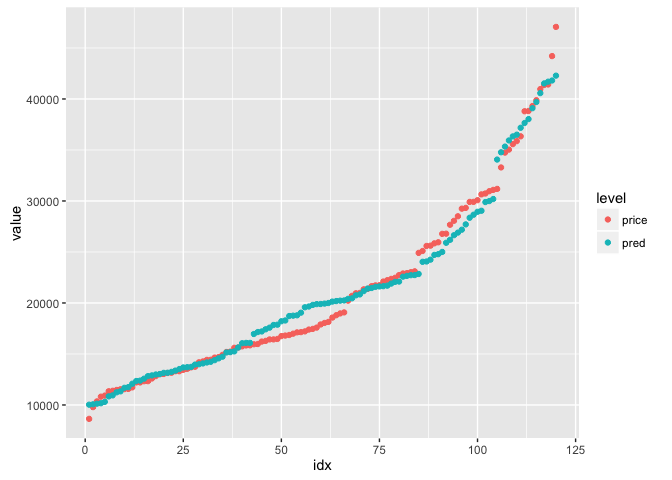
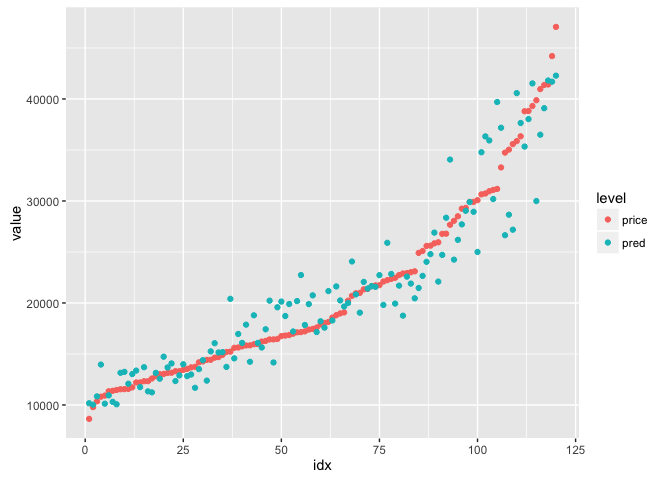
linear model change code and images

diff --git a/r/linear-model/index.html b/r/linear-model/index.html
@@ -516,42 +516,27 @@ mse_cars2
 
 <p>실제 데이터와 예측 결과를 하나의 그래프에 표현하려고 한다</p>
 <div class="highlight"><pre><code class="language-r" data-lang="r"><span class="kn">library</span><span class="p">(</span>dplyr<span class="p">)</span>
-</code></pre></div><div class="highlight"><pre><code class="language-text" data-lang="text">## 
-## Attaching package: &#39;dplyr&#39;
-## 
-## The following objects are masked from &#39;package:stats&#39;:
-## 
-##     filter, lag
-## 
-## The following objects are masked from &#39;package:base&#39;:
-## 
-##     intersect, setdiff, setequal, union
-</code></pre></div><div class="highlight"><pre><code class="language-r" data-lang="r">diff_cars2 <span class="o">=</span> <span class="kt">data.frame</span><span class="p">(</span>
+
+diff_cars2 <span class="o">=</span> <span class="kt">data.frame</span><span class="p">(</span>
     price <span class="o">=</span> cars_ts<span class="o">$</span>Price<span class="p">,</span>
     pred <span class="o">=</span> pred_cars2<span class="p">)</span> <span class="o">%&gt;%</span> 
-  arrange<span class="p">(</span>price<span class="p">)</span>
+  arrange<span class="p">(</span>price<span class="p">)</span> <span class="o">%&gt;%</span> 
+  mutate<span class="p">(</span>idx <span class="o">=</span> row_number<span class="p">())</span>
 </code></pre></div>
 <p><br /></p>
 
 <p><code>ggplot2</code>에서 본래 추구하는 방식으로 그래프를 그리기 위해서는 tidy data의 형태로 data.frame을 정리하는 것이 좋다. tidy data에 대해서 알아보려면 <a href="http://lumiamitie.github.io/r/tidy-data/">예전 글</a> 의 내용을 참고하면 좋을 것 같다.</p>
 <div class="highlight"><pre><code class="language-r" data-lang="r">diff_cars2_tidy <span class="o">=</span> diff_cars2 <span class="o">%&gt;%</span> 
-  tidyr<span class="o">::</span>gather<span class="p">(</span>key <span class="o">=</span> <span class="s">&quot;level&quot;</span><span class="p">,</span> value <span class="o">=</span> <span class="s">&quot;value&quot;</span><span class="p">)</span> <span class="o">%&gt;%</span> 
-  group_by<span class="p">(</span>level<span class="p">)</span> <span class="o">%&gt;%</span> 
-  arrange<span class="p">(</span>value<span class="p">)</span> <span class="o">%&gt;%</span> 
-  mutate<span class="p">(</span>idx <span class="o">=</span> row_number<span class="p">())</span>
+  tidyr<span class="o">::</span>gather<span class="p">(</span>key <span class="o">=</span> <span class="s">&quot;level&quot;</span><span class="p">,</span> value <span class="o">=</span> <span class="s">&quot;value&quot;</span><span class="p">,</span> price<span class="o">:</span>pred<span class="p">)</span>
 
 <span class="kp">head</span><span class="p">(</span>diff_cars2_tidy<span class="p">)</span>
-</code></pre></div><div class="highlight"><pre><code class="language-text" data-lang="text">## Source: local data frame [6 x 3]
-## Groups: level [1]
-## 
-##    level    value   idx
-##   (fctr)    (dbl) (int)
-## 1  price  8638.93     1
-## 2  price  9789.04     2
-## 3  price 10354.04     3
-## 4  price 10813.34     4
-## 5  price 10921.95     5
-## 6  price 11343.05     6
+</code></pre></div><div class="highlight"><pre><code class="language-text" data-lang="text">##   idx level    value
+## 1   1 price  8638.93
+## 2   2 price  9789.04
+## 3   3 price 10354.04
+## 4   4 price 10813.34
+## 5   5 price 10921.95
+## 6   6 price 11343.05
 </code></pre></div><div class="highlight"><pre><code class="language-r" data-lang="r">ggplot<span class="p">(</span>data <span class="o">=</span> diff_cars2_tidy<span class="p">,</span> 
         aes<span class="p">(</span>x <span class="o">=</span> idx<span class="p">,</span> y <span class="o">=</span> value<span class="p">,</span> colour <span class="o">=</span> level<span class="p">))</span> <span class="o">+</span>
   geom_point<span class="p">()</span>
@@ -890,10 +875,9 @@ mse_ridge <span class="o">=</span> <span class="kp">mean</span><span class="p">(
 <div class="highlight"><pre><code class="language-r" data-lang="r">df_ridge <span class="o">=</span> <span class="kt">data.frame</span><span class="p">(</span>
     price <span class="o">=</span> cars_ts<span class="o">$</span>Price<span class="p">,</span>
     pred <span class="o">=</span> pred_ridge<span class="p">[,</span><span class="m">1</span><span class="p">])</span> <span class="o">%&gt;%</span> 
-  tidyr<span class="o">::</span>gather<span class="p">(</span>key <span class="o">=</span> <span class="s">&#39;level&#39;</span><span class="p">,</span> value <span class="o">=</span> <span class="s">&#39;value&#39;</span><span class="p">)</span> <span class="o">%&gt;%</span> 
-  group_by<span class="p">(</span>level<span class="p">)</span> <span class="o">%&gt;%</span> 
-  arrange<span class="p">(</span>value<span class="p">)</span> <span class="o">%&gt;%</span> 
-  mutate<span class="p">(</span>idx <span class="o">=</span> row_number<span class="p">())</span>
+  arrange<span class="p">(</span>price<span class="p">)</span> <span class="o">%&gt;%</span> 
+  mutate<span class="p">(</span>idx <span class="o">=</span> row_number<span class="p">())</span> <span class="o">%&gt;%</span> 
+  tidyr<span class="o">::</span>gather<span class="p">(</span>key <span class="o">=</span> <span class="s">&#39;level&#39;</span><span class="p">,</span> value <span class="o">=</span> <span class="s">&#39;value&#39;</span><span class="p">,</span> price<span class="o">:</span>pred<span class="p">)</span>
 
 ggplot<span class="p">(</span>df_ridge<span class="p">,</span> aes<span class="p">(</span>x <span class="o">=</span> idx<span class="p">,</span> y <span class="o">=</span> value<span class="p">,</span> colour <span class="o">=</span> level<span class="p">))</span><span class="o">+</span>
   geom_point<span class="p">()</span><span class="o">+</span>
@@ -937,12 +921,11 @@ mse_lasso <span class="o">=</span> <span class="kp">mean</span><span class="p">(
 
 <p>lasso의 경우도 실제 값과 예측결과를 그래프로 비교해볼 수 있다</p>
 <div class="highlight"><pre><code class="language-r" data-lang="r">df_lasso <span class="o">=</span> <span class="kt">data.frame</span><span class="p">(</span>
-  price <span class="o">=</span> cars_ts<span class="o">$</span>Price<span class="p">,</span>
-  pred <span class="o">=</span> pred_lasso<span class="p">[,</span><span class="m">1</span><span class="p">])</span> <span class="o">%&gt;%</span> 
-  tidyr<span class="o">::</span>gather<span class="p">(</span>key <span class="o">=</span> <span class="s">&#39;level&#39;</span><span class="p">,</span> value <span class="o">=</span> <span class="s">&#39;value&#39;</span><span class="p">)</span> <span class="o">%&gt;%</span> 
-  group_by<span class="p">(</span>level<span class="p">)</span> <span class="o">%&gt;%</span> 
-  arrange<span class="p">(</span>value<span class="p">)</span> <span class="o">%&gt;%</span> 
-  mutate<span class="p">(</span>idx <span class="o">=</span> row_number<span class="p">())</span>
+    price <span class="o">=</span> cars_ts<span class="o">$</span>Price<span class="p">,</span>
+    pred <span class="o">=</span> pred_lasso<span class="p">[,</span><span class="m">1</span><span class="p">])</span> <span class="o">%&gt;%</span> 
+  arrange<span class="p">(</span>price<span class="p">)</span> <span class="o">%&gt;%</span> 
+  mutate<span class="p">(</span>idx <span class="o">=</span> row_number<span class="p">())</span> <span class="o">%&gt;%</span> 
+  tidyr<span class="o">::</span>gather<span class="p">(</span>key <span class="o">=</span> <span class="s">&#39;level&#39;</span><span class="p">,</span> value <span class="o">=</span> <span class="s">&#39;value&#39;</span><span class="p">,</span> price<span class="o">:</span>pred<span class="p">)</span>
 
 ggplot<span class="p">(</span>df_lasso<span class="p">,</span> aes<span class="p">(</span>x <span class="o">=</span> idx<span class="p">,</span> y <span class="o">=</span> value<span class="p">,</span> colour <span class="o">=</span> level<span class="p">))</span><span class="o">+</span>
   geom_point<span class="p">()</span><span class="o">+</span>
@@ -996,12 +979,11 @@ pred_lasso2 <span class="o">=</span> predict<span class="p">(</span>
 <span class="p">)</span>
 
 df_lasso2 <span class="o">=</span> <span class="kt">data.frame</span><span class="p">(</span>
-  price <span class="o">=</span> cars_ts2<span class="o">$</span>Price<span class="p">,</span>
-  pred <span class="o">=</span> pred_lasso2<span class="p">[,</span><span class="m">1</span><span class="p">])</span> <span class="o">%&gt;%</span> 
-  tidyr<span class="o">::</span>gather<span class="p">(</span>key <span class="o">=</span> <span class="s">&#39;level&#39;</span><span class="p">,</span> value <span class="o">=</span> <span class="s">&#39;value&#39;</span><span class="p">)</span> <span class="o">%&gt;%</span> 
-  group_by<span class="p">(</span>level<span class="p">)</span> <span class="o">%&gt;%</span> 
-  arrange<span class="p">(</span>value<span class="p">)</span> <span class="o">%&gt;%</span> 
-  mutate<span class="p">(</span>idx <span class="o">=</span> row_number<span class="p">())</span>
+    price <span class="o">=</span> cars_ts2<span class="o">$</span>Price<span class="p">,</span>
+    pred <span class="o">=</span> pred_lasso2<span class="p">[,</span><span class="m">1</span><span class="p">])</span> <span class="o">%&gt;%</span> 
+  arrange<span class="p">(</span>price<span class="p">)</span> <span class="o">%&gt;%</span> 
+  mutate<span class="p">(</span>idx <span class="o">=</span> row_number<span class="p">())</span> <span class="o">%&gt;%</span> 
+  tidyr<span class="o">::</span>gather<span class="p">(</span>key <span class="o">=</span> <span class="s">&#39;level&#39;</span><span class="p">,</span> value <span class="o">=</span> <span class="s">&#39;value&#39;</span><span class="p">,</span> price<span class="o">:</span>pred<span class="p">)</span>
 
 ggplot<span class="p">(</span>df_lasso2<span class="p">,</span> aes<span class="p">(</span>x <span class="o">=</span> idx<span class="p">,</span> y <span class="o">=</span> value<span class="p">,</span> colour <span class="o">=</span> level<span class="p">))</span><span class="o">+</span>
   geom_point<span class="p">()</span><span class="o">+</span>
